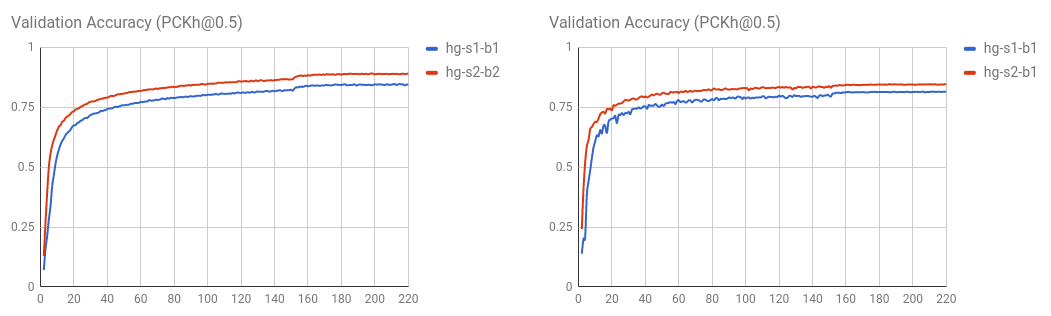
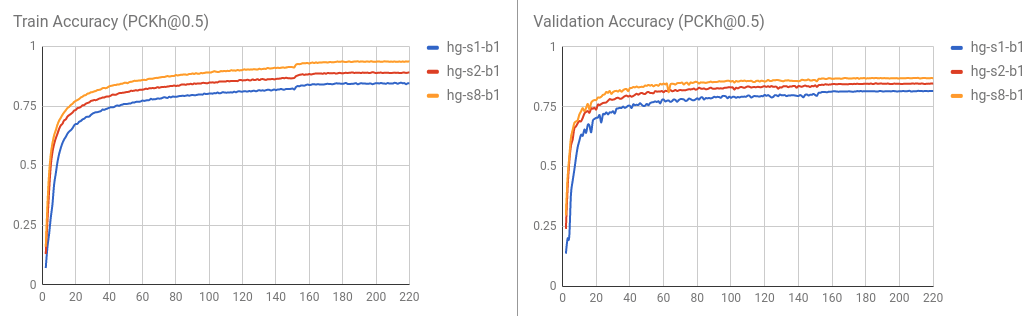
add hg-s8-b1 model. plot accuracy only.

diff --git a/example/mscoco.py b/example/mscoco.py
@@ -1,5 +1,6 @@
 from __future__ import print_function, absolute_import
 
+import os
 import argparse
 import time
 import matplotlib.pyplot as plt
@@ -116,7 +117,7 @@ def main(args):
         }, predictions, is_best, checkpoint=args.checkpoint, snapshot=args.snapshot)
 
     logger.close()
-    logger.plot()
+    logger.plot(['Train Acc', 'Val Acc'])
     savefig(os.path.join(args.checkpoint, 'log.eps'))
 
 

diff --git a/example/mpii.py b/example/mpii.py
@@ -123,7 +123,7 @@ def main(args):
         }, predictions, is_best, checkpoint=args.checkpoint)
 
     logger.close()
-    logger.plot()
+    logger.plot(['Train Acc', 'Val Acc'])
     savefig(os.path.join(args.checkpoint, 'log.eps'))
 
 

diff --git a/README.md b/README.md
@@ -26,7 +26,7 @@ Some codes for data preparation and augmentation are brought from the [Stacked h
 ## Usage
 
 ### Testing
-You may download our pretrained [2-stack hourglass model](https://drive.google.com/drive/folders/0B63t5HSgY4SQQ2FBRE5rQ2EzbjQ?usp=sharing) for a quick start.
+You may download our pretrained models (e.g., [2-stack hourglass model](https://drive.google.com/drive/folders/0B63t5HSgY4SQQ2FBRE5rQ2EzbjQ?usp=sharing)) for a quick start.
 
 Run the following command in terminal to evaluate the model on MPII validation split (The train/val split is from [Tompson et al. CVPR 2015](http://www.cims.nyu.edu/~tompson/data/mpii_valid_pred.zip)).
 ```
@@ -45,13 +45,15 @@ The result will be saved as a `.mat` file (`preds_valid.mat`), which is a `2958x
 
 You may use the matlab script `evaluation/eval_PCKh.m` to evaluate your predictions. The evaluation code is ported from  [Tompson et al. CVPR 2015](http://www.cims.nyu.edu/~tompson/data/mpii_valid_pred.zip).
 
-The result (PCKh@0.5 score) of the [2-stack hourglass model (`stack=2, block=1`)](https://drive.google.com/drive/folders/0B63t5HSgY4SQQ2FBRE5rQ2EzbjQ?usp=sharing) trained using this code is reported in the following table.
+The results (PCKh@0.5 score) trained using this code is reported in the following table.
 
 
 | Model            | Head | Shoulder | Elbow | Wrist | Hip  | Knee  | Ankle | Mean | 
 | ---------------- | -----| -------- | ----- | ----- | ---- | ------|------ | ---- |
 | hg_s2_b1 (last)  | 95.80| 94.57    | 88.12 | 83.31 | 86.24| 80.88 | 77.44 | 86.76|
 | hg_s2_b1 (best)  | 95.87| 94.68    | 88.27 | 83.64 | 86.29| 81.20 | 77.70 | 86.95|
+| hg_s8_b1 (last)  | 96.79| 95.19    | 90.08 | 85.32 | 87.48| 84.26 | 80.73 | 88.64|
+| hg_s8_b1 (best)  | 96.79|	95.28	 | 90.27 | 85.56 | 87.57| 84.3  | 81.06	| 88.78|
 
 Training / validation curve is visualized as follows.
 
